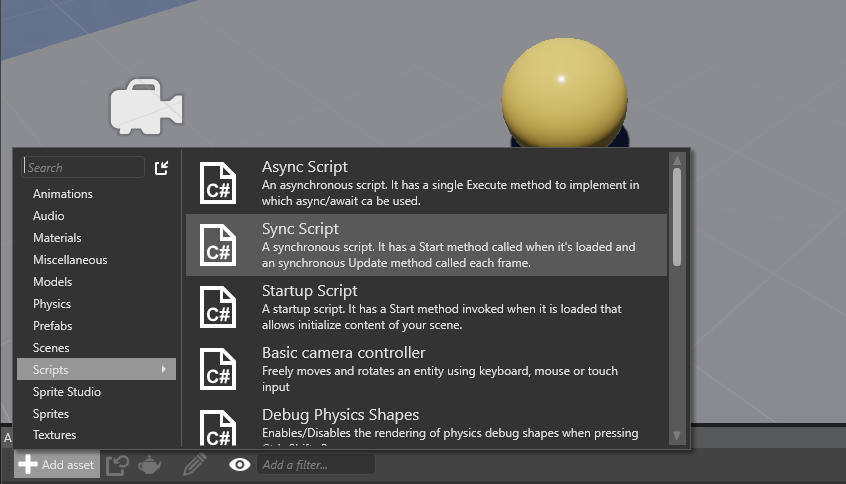
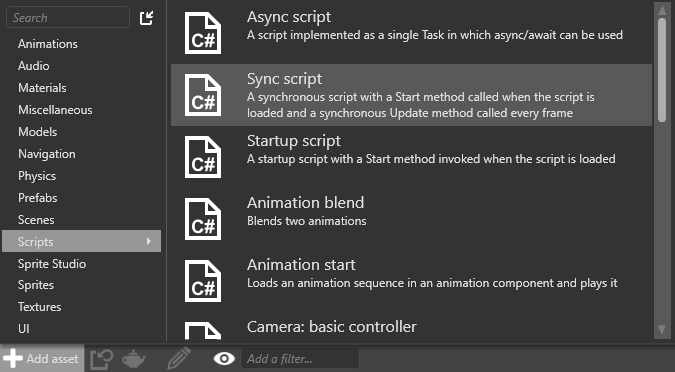
[Scripts] update screenshots, delete redundant file

diff --git a/manual/scripts/create-a-model-from-code.md b/manual/scripts/create-a-model-from-code.md
@@ -15,7 +15,7 @@ You can create models in scripts at runtime. You can do this in several differen
 
 1. Create a new, empty synchronous script. For full instructions, see [Create a script](../scripts/create-a-script.md).
 
-    ![Add new script](media/create-model-from-code-add-new-script.gif)
+    ![Create a script](media/create-a-script-script-asset-selection.png)
 
 2. In the script, load the model using its asset URL. For example:
 
